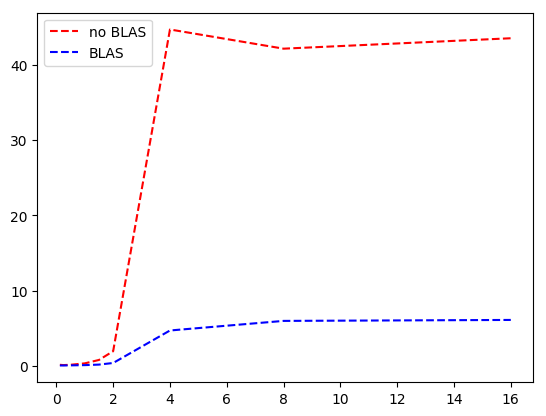
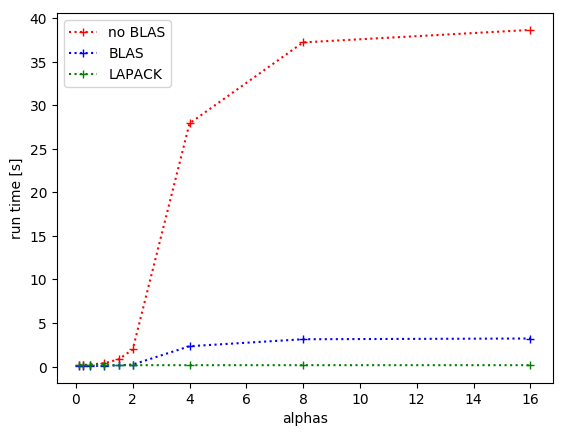
Plot run times and speedups

diff --git a/exercise05/power_method/plot.py b/exercise05/power_method/plot.py
@@ -11,18 +11,29 @@ for idx, line in enumerate(content):
         run_times.append(np.fromstring(content[idx + 1], sep=',')[:-1])
 
 alphas = np.array([1. / 8, 1. / 4, 1. / 2, 1, 3. / 2, 2, 4, 8, 16])
+
 run_times_no_blas = run_times[0]
 run_times_blas = run_times[1]
+run_times_lapack = run_times[2]
 
-plt.plot(alphas, run_times_no_blas, 'r--', label='no BLAS')
-plt.plot(alphas, run_times_blas, 'b--', label='BLAS')
+plt.plot(alphas, run_times_no_blas, 'r+:', label='no BLAS')
+plt.plot(alphas, run_times_blas, 'b+:', label='BLAS')
+plt.plot(alphas, run_times_lapack, 'g+:', label='LAPACK')
+plt.xlabel('alphas')
+plt.ylabel('run time [s]')
 plt.legend()
 
 plt.savefig('run_times.png', bbox_inches='tight')
 plt.close()
 
-speedup = np.divide(run_times_no_blas, run_times_blas)
+speedup_blas = np.divide(run_times_no_blas, run_times_blas)
+speedup_lapack = np.divide(run_times_blas, run_times_lapack)
 
-plt.plot(alphas, speedup)
+plt.plot(alphas, speedup_blas, 'r+:', label='$t_{manual}/t_{power}$')
+plt.plot(alphas, speedup_lapack, 'b+:', label='$t_{power}/t_{ev\_full}$')
+plt.xlabel('alphas')
+plt.ylabel('speedup')
+plt.legend()
+
 plt.savefig('speedup.png', bbox_inches='tight')
 plt.close()
